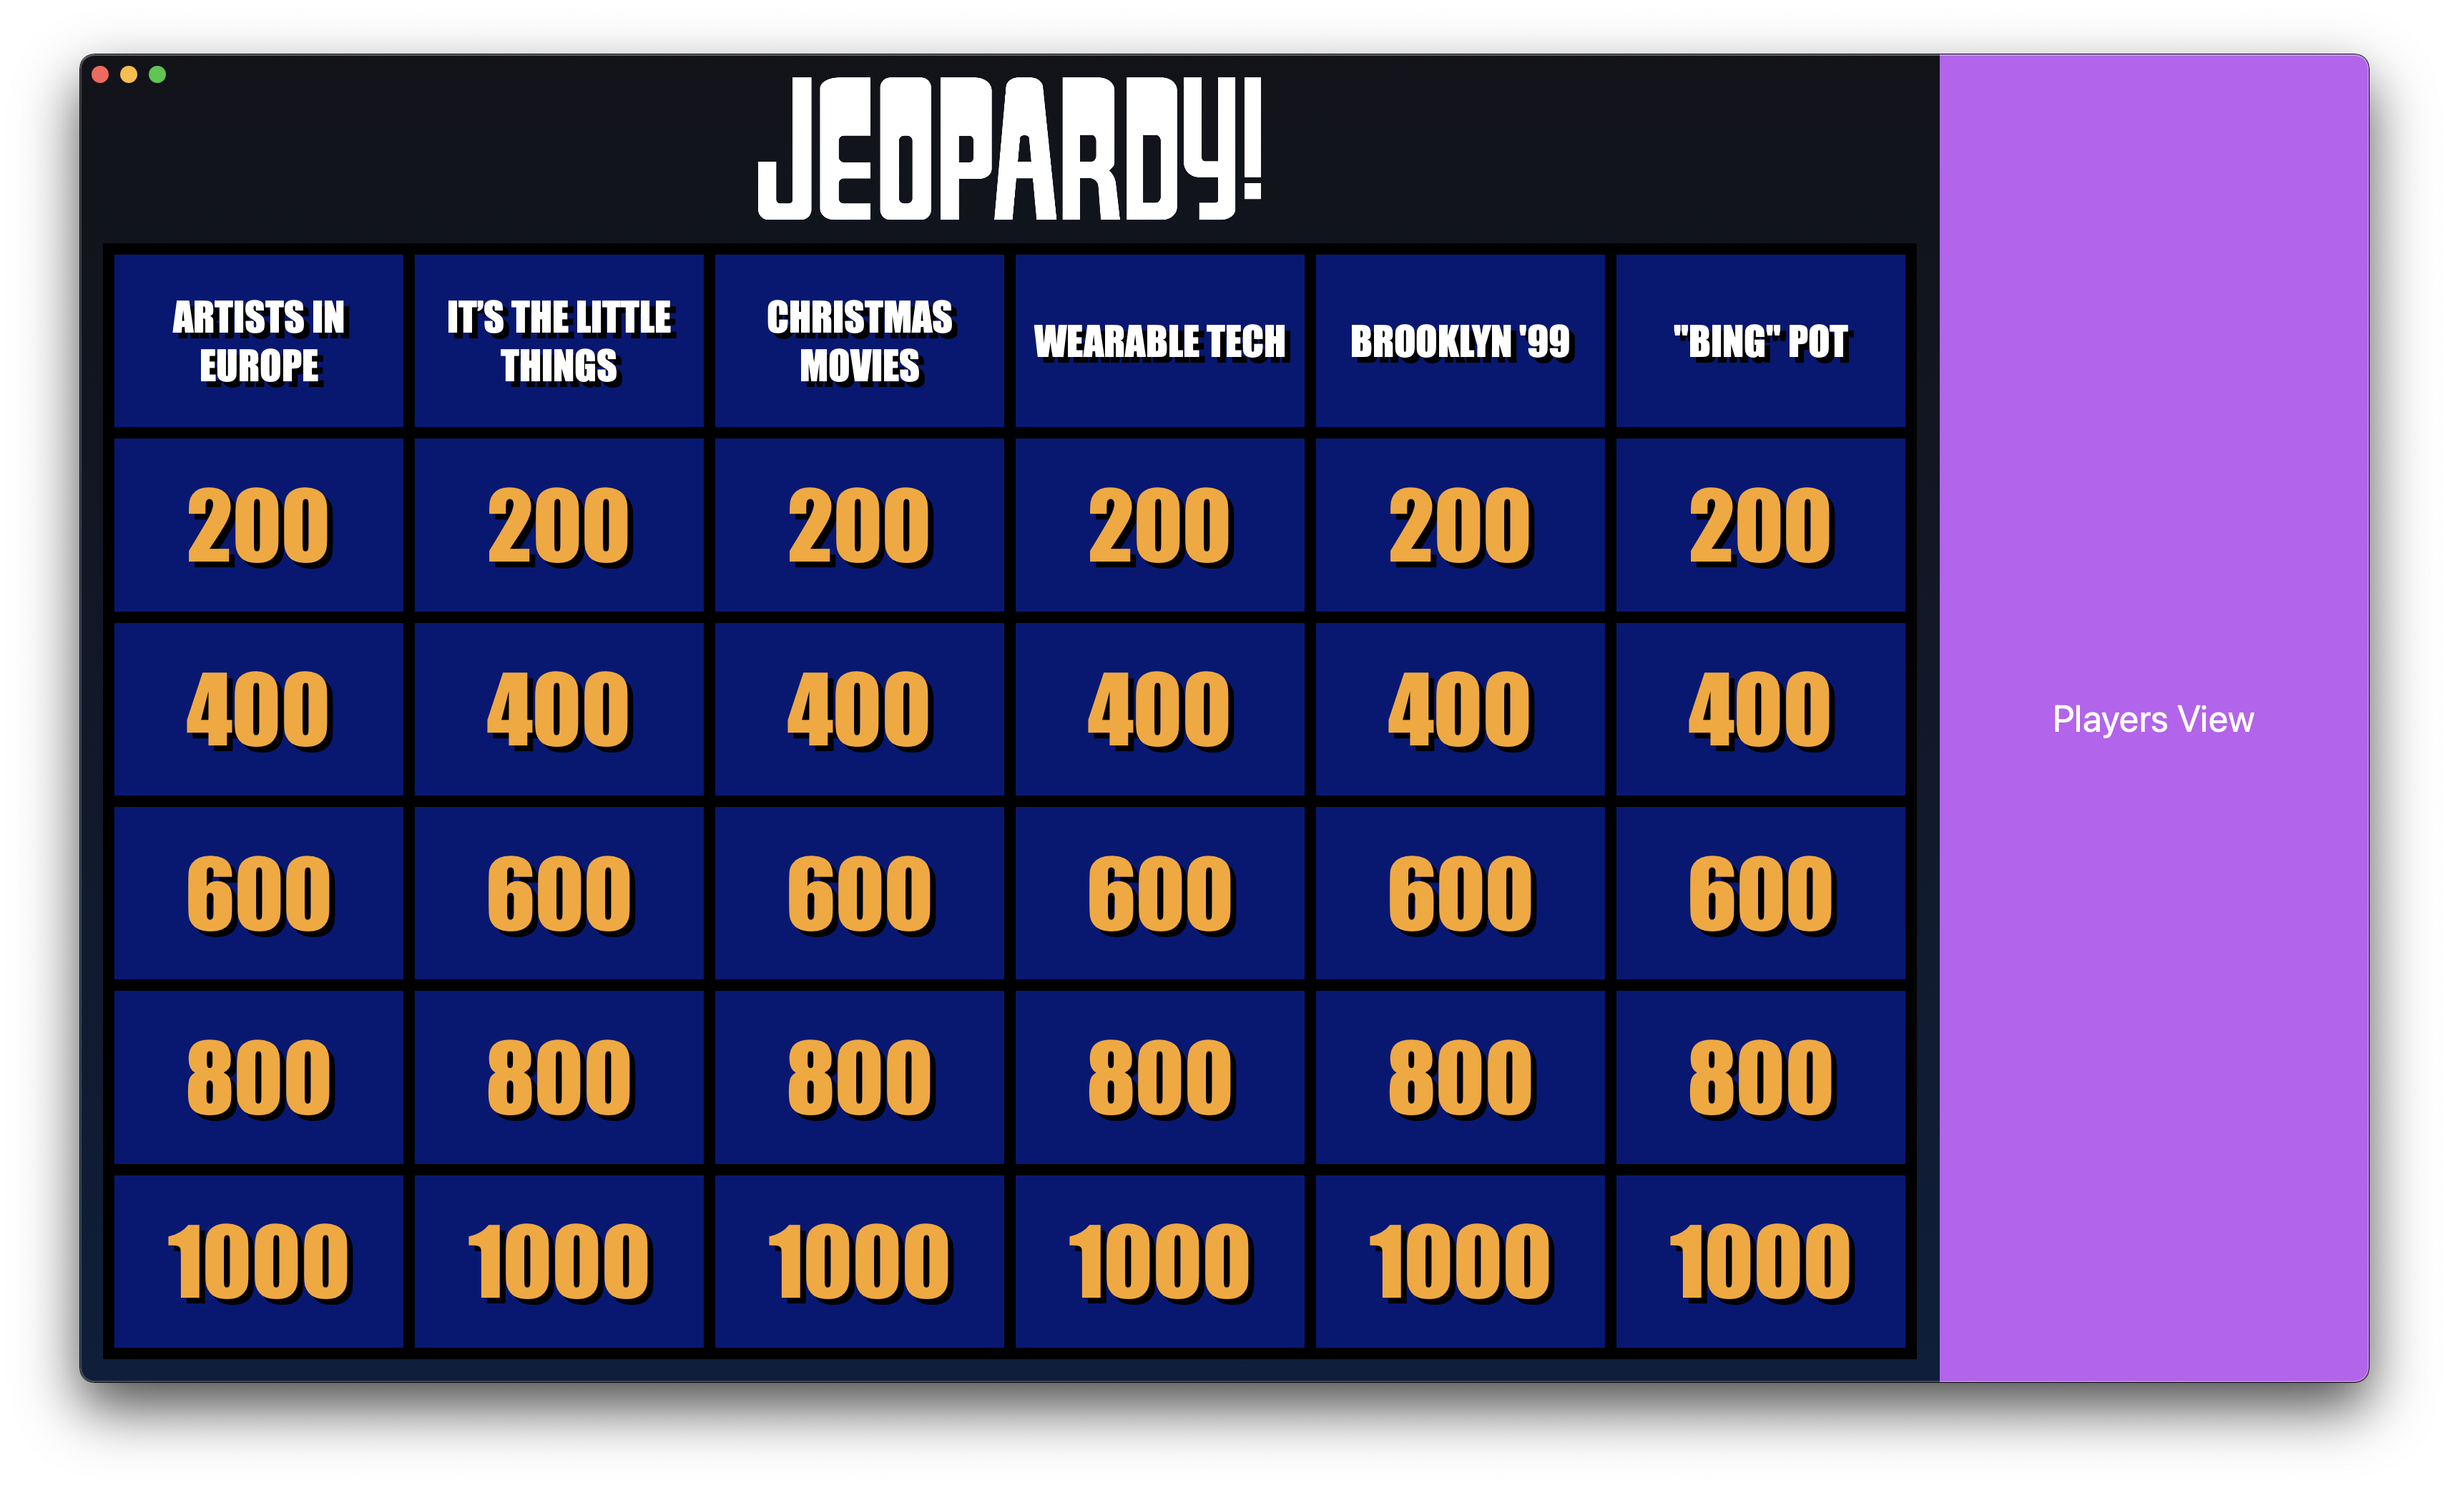
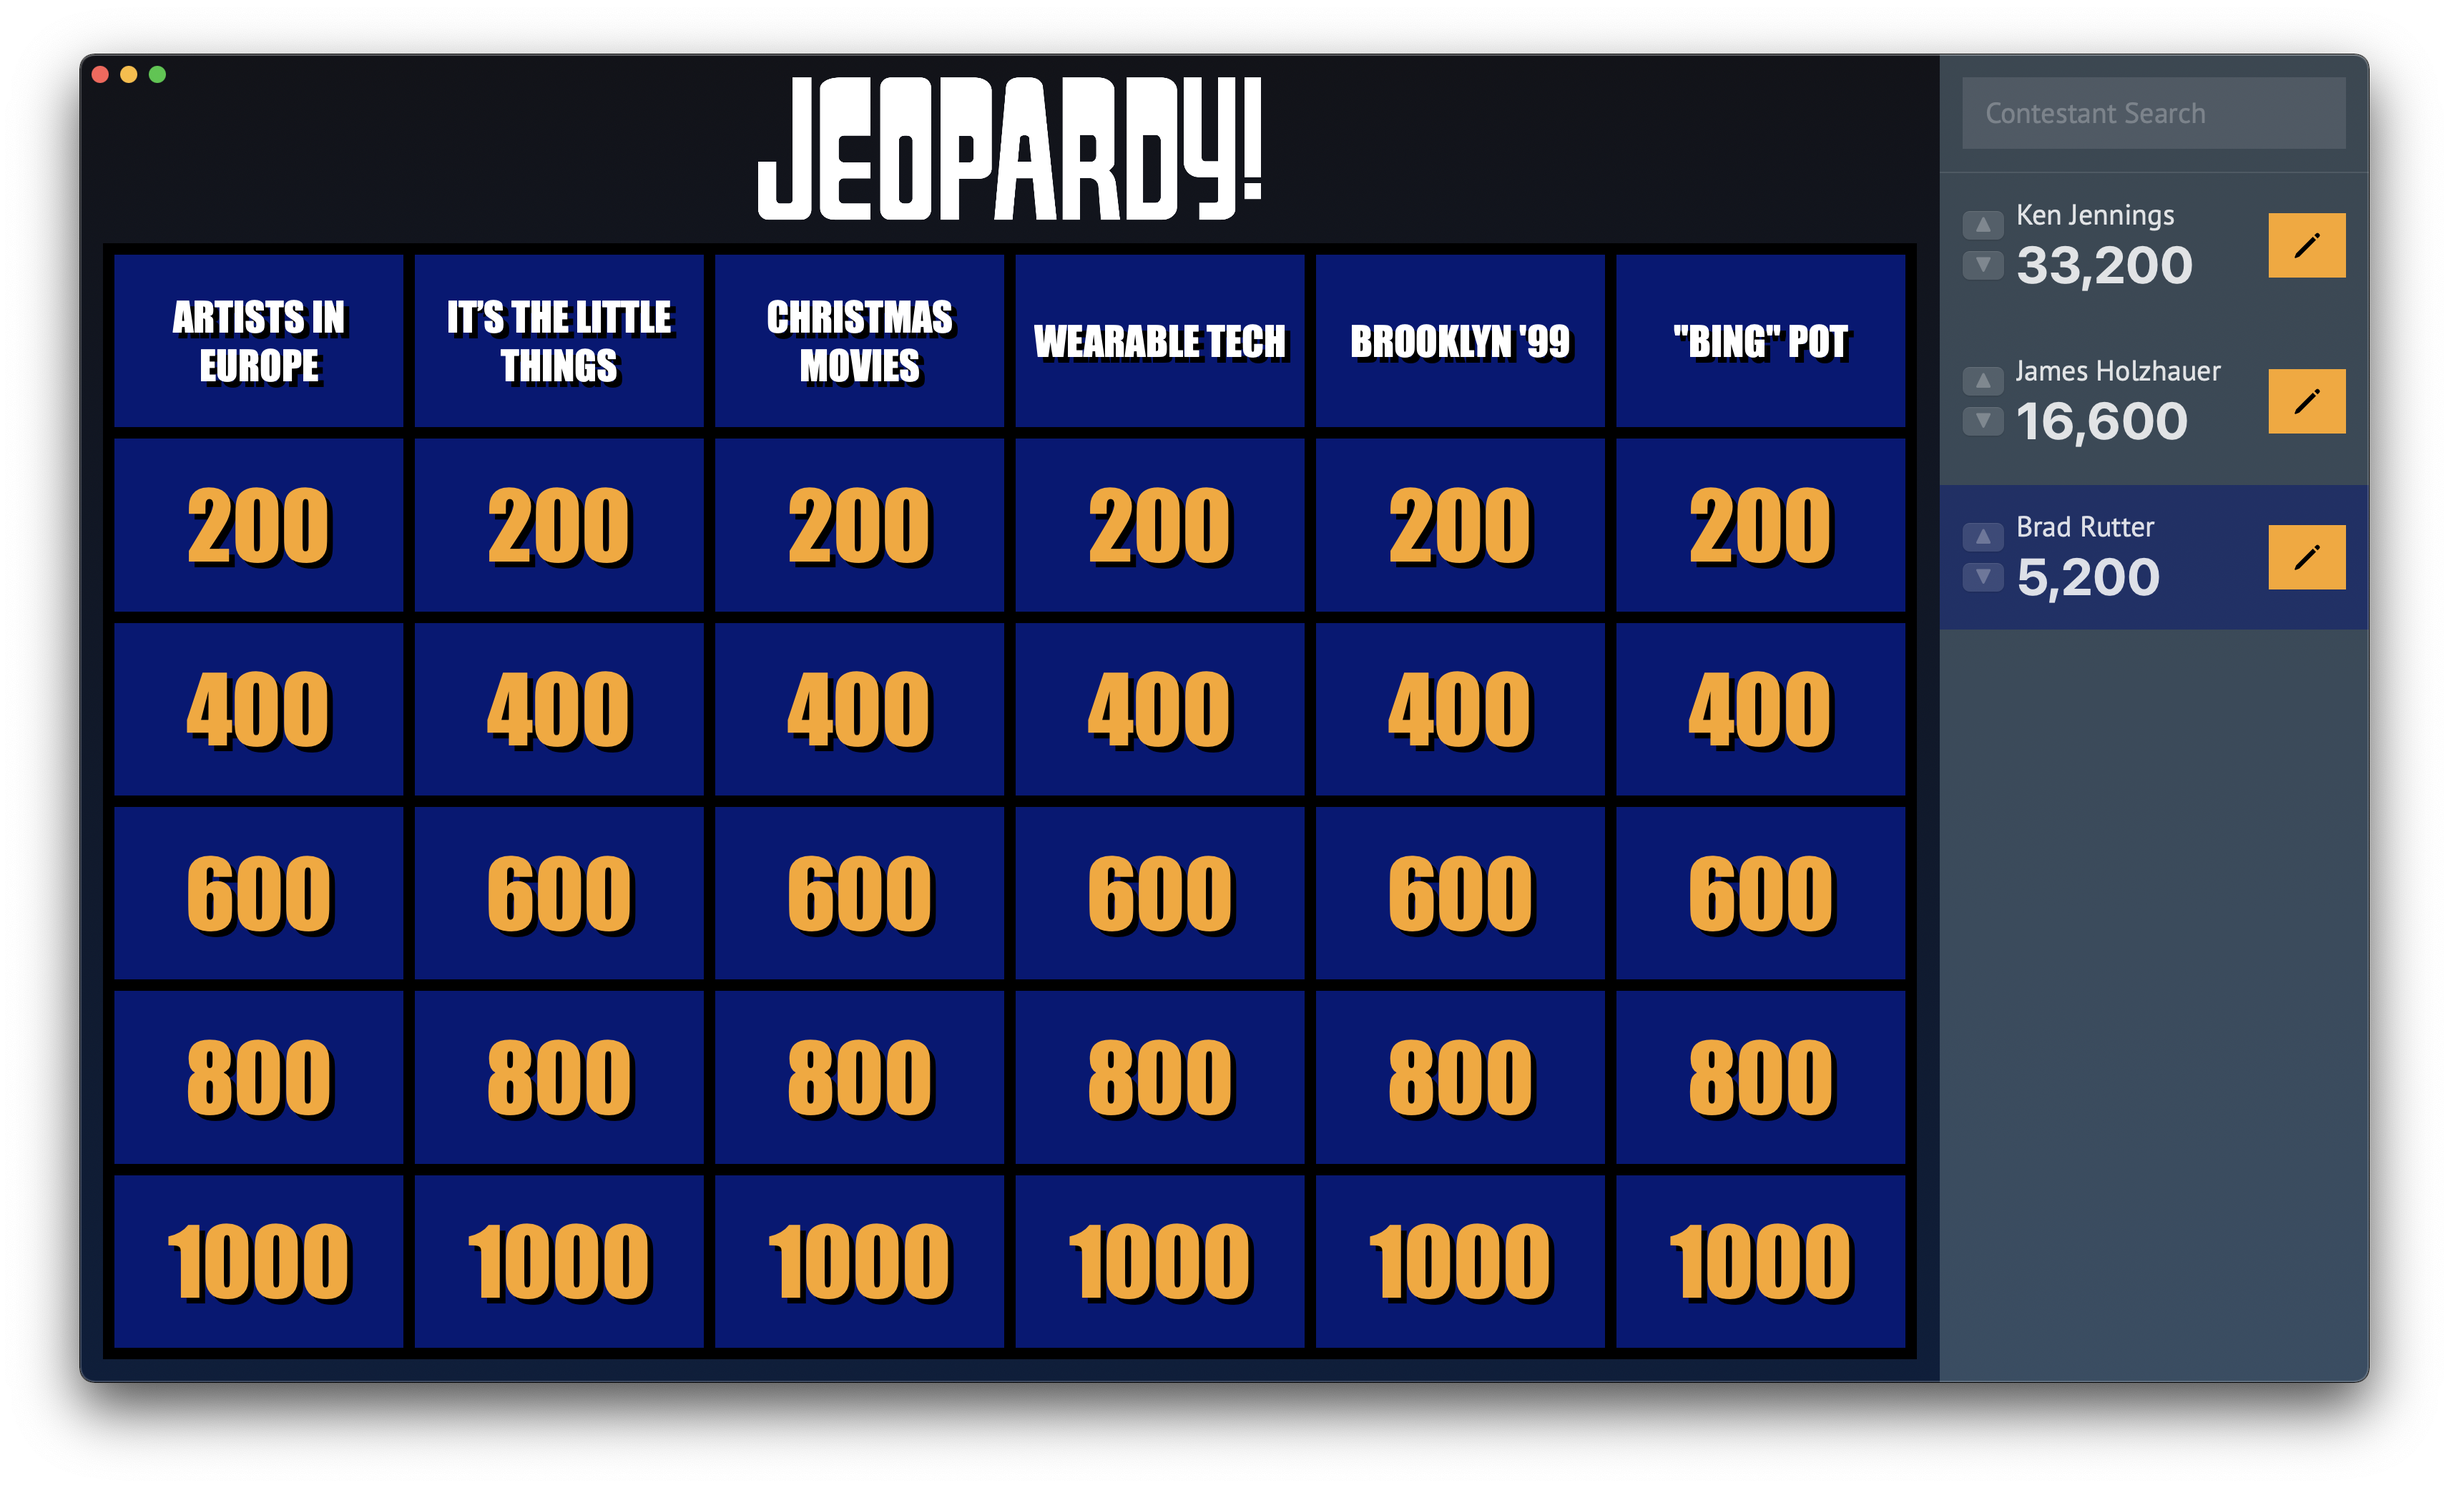
Create a searchable player list panel
* Implemented the `PlayerView` struct. I still need to figure out how
    to build the wagering UI.

Changed region(s): [[0.7812, 0.0312, 0.9688, 0.9375]]

diff --git a/JeopardyBoard/Views/PlayerView.swift b/JeopardyBoard/Views/PlayerView.swift
@@ -1,0 +1,120 @@
+import SwiftUI
+
+/// A view that displays a contestant’s name and score.
+struct PlayerView: View {
+    
+    /// The contestant.
+    let player: Player
+    
+    /// The global app state.
+    @EnvironmentObject private var appState: AppState
+    
+    /// The view model that binds this view to a *Jeopardy!* game.
+    @ObservedObject var viewModel: JeopardyGameViewModel
+    
+    /// Indicates whether the contestant’s score is currently being edited.
+    @State private var editModeIsEnabled = false
+    
+    /// The editable score text.
+    @State private var editableScoreText = ""
+    
+    var body: some View {
+        HStack {
+            VStack {
+                Button(action: addPoints) {
+                    Image(systemName: "arrowtriangle.up.fill")
+                }
+                    .disabled(responseButtonsAreDisabled)
+                Button(action: deductPoints) {
+                    Image(systemName: "arrowtriangle.down.fill")
+                }
+                    .disabled(responseButtonsAreDisabled)
+            }
+            VStack(alignment: .leading) {
+                Text(player.name).font(.custom("PT Sans", size: 20))
+                if editModeIsEnabled {
+                    TextField(
+                        "Score",
+                        text: $editableScoreText,
+                        onCommit: changeScore
+                    )
+                        .textFieldStyle(TrebekTextFieldStyle())
+                }
+                else {
+                    Text("\(player.score)")
+                        .font(.system(size: 36, weight: .bold))
+                        .foregroundColor(scoreColor)
+                }
+            }
+            if !editModeIsEnabled {
+                Spacer(minLength: 6)
+                Button(action: enableEditMode) {
+                    Image(systemName: "pencil")
+                }
+                    .buttonStyle(TrebekButtonStyle())
+            }
+        }
+            .padding()
+            .background(backgroundColor)
+    }
+    
+    /// The background color of this view.
+    private var backgroundColor: Color {
+        player.canSelectClue ? Color.trebekBlue.opacity(0.5) : .clear
+    }
+    
+    /// Indicates whether the response buttons are disabled.
+    private var responseButtonsAreDisabled: Bool {
+        if player.hasRespondedToCurrentClue {
+            return true
+        }
+        if let selectedClue = viewModel.selectedClue {
+            return selectedClue.isDailyDouble && !player.canSelectClue
+        }
+        return true
+    }
+    
+    /// The score color.
+    private var scoreColor: Color {
+        player.score < 0 ? .red : .primary
+    }
+    
+    /// Add the selected clue’s point value to the contestant’s score.
+    private func addPoints() {
+        viewModel.respondToSelectedClue(for: player, correct: true)
+    }
+    
+    /// Change the contestant’s score to the value in the *Score* text field.
+    private func changeScore() {
+        if let newScore = Int(editableScoreText.trimmed) {
+            viewModel.setScore(to: newScore, for: player)
+            editModeIsEnabled = false
+            return
+        }
+        self.appState.errorAlert = AppState.ErrorAlert(
+            title: "Invalid Input",
+            message: "The value entered is not a valid score. Please try again."
+        )
+    }
+    
+    /// Deduct the selected clue’s point value from the contestant’s score.
+    private func deductPoints() {
+        viewModel.respondToSelectedClue(for: player, correct: false)
+    }
+    
+    /// Enables “Edit Mode” on this view.
+    private func enableEditMode() {
+        editableScoreText = String(player.score)
+        editModeIsEnabled = true
+    }
+}
+
+#if DEBUG
+struct PlayerView_Previews: PreviewProvider {
+    static var previews: some View {
+        let viewModel = JeopardyGameViewModel(game: exampleGame)
+        return PlayerView(player: exampleGame.players[1], viewModel: viewModel)
+            .frame(width: 300)
+    }
+}
+#endif

diff --git a/JeopardyBoard/Views/GameView.swift b/JeopardyBoard/Views/GameView.swift
@@ -6,6 +6,9 @@ struct GameView: View {
     /// The view model that binds this view to a *Jeopardy!* game.
     @ObservedObject var viewModel: JeopardyGameViewModel
     
+    /// The contestant name search text.
+    @State private var playerNameSearchText = ""
+    
     var body: some View {
         HStack(spacing: 0) {
             VStack(spacing: 0) {
@@ -28,12 +31,36 @@ struct GameView: View {
             }
                 .frame(maxWidth: .infinity)
                 .padding([.leading, .trailing, .bottom])
-            Text("Players View")
-                .font(.largeTitle)
-                .foregroundColor(.white)
+            VStack(spacing: 0) {
+                TextField("Contestant Search", text: $playerNameSearchText)
+                    .textFieldStyle(TrebekTextFieldStyle())
+                    .padding()
+                Divider()
+                ScrollView(.vertical) {
+                    ForEach(players) {
+                        PlayerView(player: $0, viewModel: viewModel)
+                    }
+                }
+                    .frame(maxWidth: .infinity)
+            }
                 .frame(width: 300)
                 .frame(maxHeight: .infinity)
-                .background(Color.purple)
+                .background(Color("Player List Panel Background"))
+        }
+    }
+    
+    /// The filtered contestants as a result of the name search.
+    private var players: [Player] {
+        viewModel.players.filter { player in
+            if viewModel.currentRound == .finalJeopardy {
+                return player.score > 0
+            }
+            let searchText = playerNameSearchText.uppercased().trimmed
+            if searchText.isEmpty {
+                return true
+            }
+            let uppercasePlayerName = player.name.uppercased()
+            return uppercasePlayerName.contains(searchText)
         }
     }
 }

diff --git a/README.md b/README.md
@@ -9,7 +9,7 @@ Jeopardy! Board
     </a>
 </p>
 
-![Start a New Game Screen](Screenshots/start_a_new_game.png)
+![Start a New Game Screen](Screenshots/game.png)
 
 A *Jeopardy!* game board interface used at (virtual) office happy hours, trivia
 nights, or other fun events.
